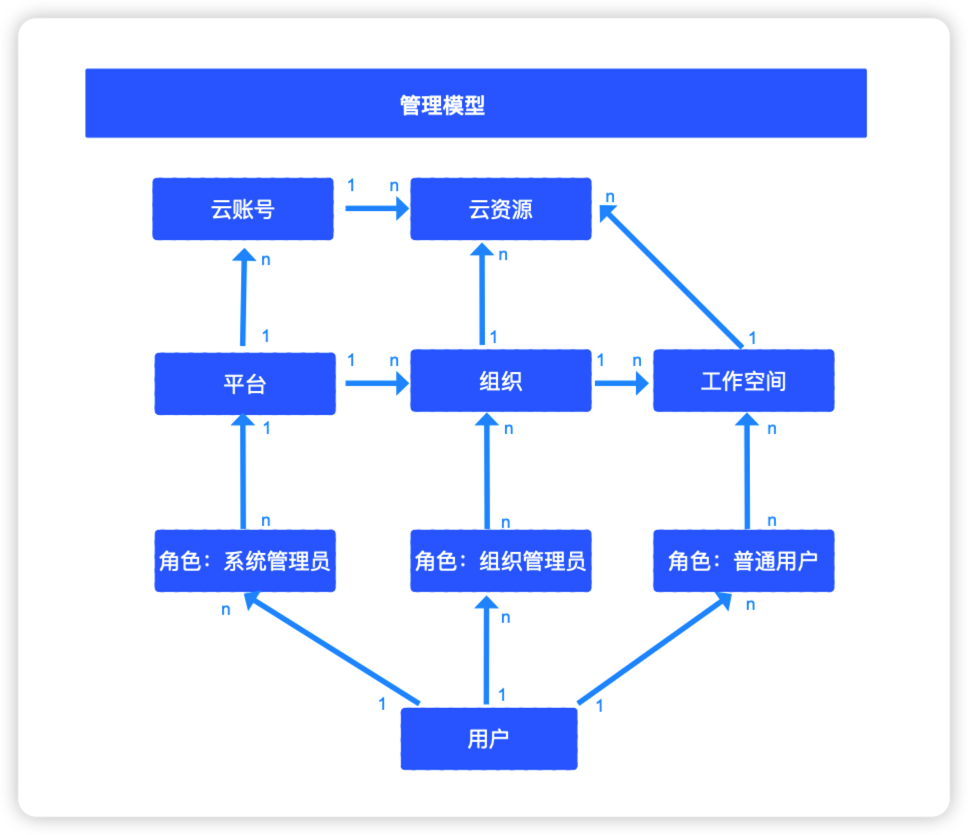
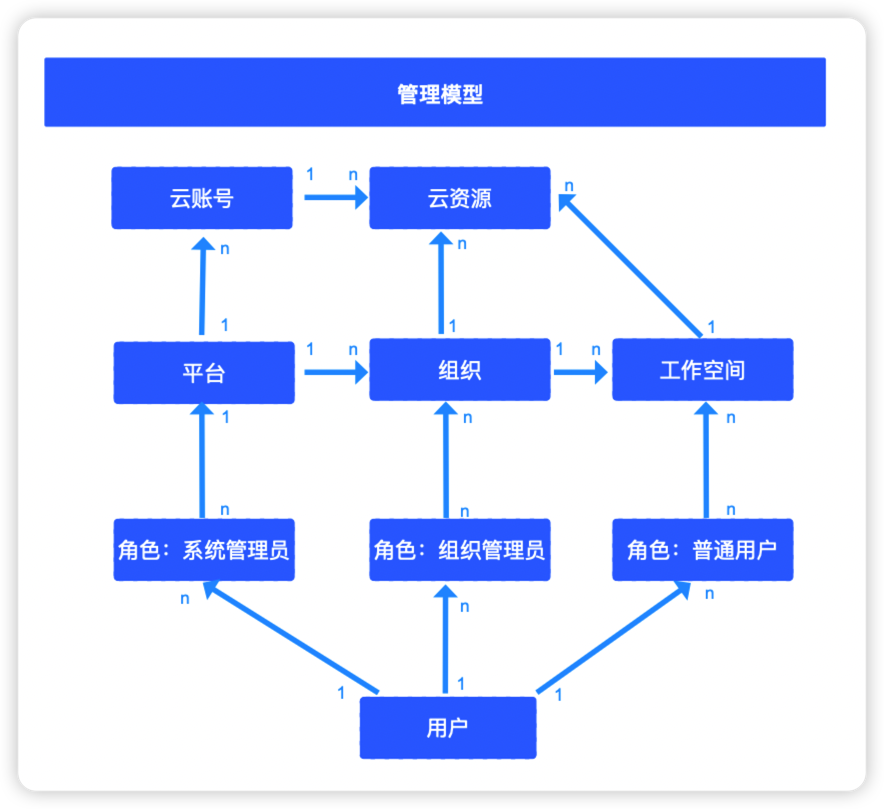
更新离线安装下载地址

Changed region(s): [[0.0305, 0.0618, 0.9468, 0.958]]

diff --git a/docs/index.md b/docs/index.md
@@ -12,7 +12,7 @@
     - 多云对接：CloudExplorer-Lite 支持对接纳管市场上主流的公有云和私有云，包括阿里云、华为云、腾讯云、VMware、OpenStack等；
     - 开箱即用：作为一款轻量版云管平台，CloudExplorer-Lite 提供诸多开箱即用的功能满足大部分企业的基本需求；
     - 扩展能力：云管平台是解决方案类型软件。为了满足企业的个性化和定制化需求，CloudExplorer-Lite 在架构上提供强大的多租户体系和模块化能力。
-![产品优势](./img/index/产品优势.png){ width="1235px" }  
+![产品优势](./img/index/产品优势.png){ width="600px" }  
 
 ## 2 多云对接能力
 
@@ -58,7 +58,7 @@
 - 4.1 多租户体系
 !!! Abstract "" 
     CloudExplorer-Lite 提供了多租户、多角色的管理模型。系统初始化了3种内置角色分别为系统管理员、组织管理员和普通用户，用户可根据企业的实际情况进行灵活的租户体系映射。  
-![管理模型](./img/index/管理模型.png){ width="800px" }
+![管理模型](./img/index/管理模型.png){ width="600px" }
 
 - 4.2 模块设计
 !!! Abstract "" 

diff --git a/docs/system_arch.md b/docs/system_arch.md
@@ -1,6 +1,6 @@
 ## 1 整体架构
 
-![整体架构](./img/systemarch/systemarch.png){ width="1235px" }
+![整体架构](./img/systemarch/systemarch.png){ width="800px" }
 
 ## 2 组件说明
 !!! Abstract ""
@@ -17,7 +17,7 @@
     - Logstash：将本地日志文件推送至 ElasticSearch。
 
 各个组件间的关系可参考下图  
-![组件说明](./img/systemarch/components.png){ width="1235px" }
+![组件说明](./img/systemarch/components.png){ width="800px" }
 
 ## 3 管理模型
 ![管理模型](./img/systemarch/管理模型.png){ width="800px" }

diff --git a/docs/installation/offline_installation.md b/docs/installation/offline_installation.md
@@ -12,7 +12,7 @@
 
 !!! Abstract ""
     **请自行下载 CloudExplorer-Lite 最新版本的离线安装包，并复制到目标机器的 /tmp 目录下：**  
-    安装包下载链接: 
+    安装包下载链接: https://community.fit2cloud.com/#/products/cloudexplorer-lite/downloads
 
 ## 3 解压安装包
 
